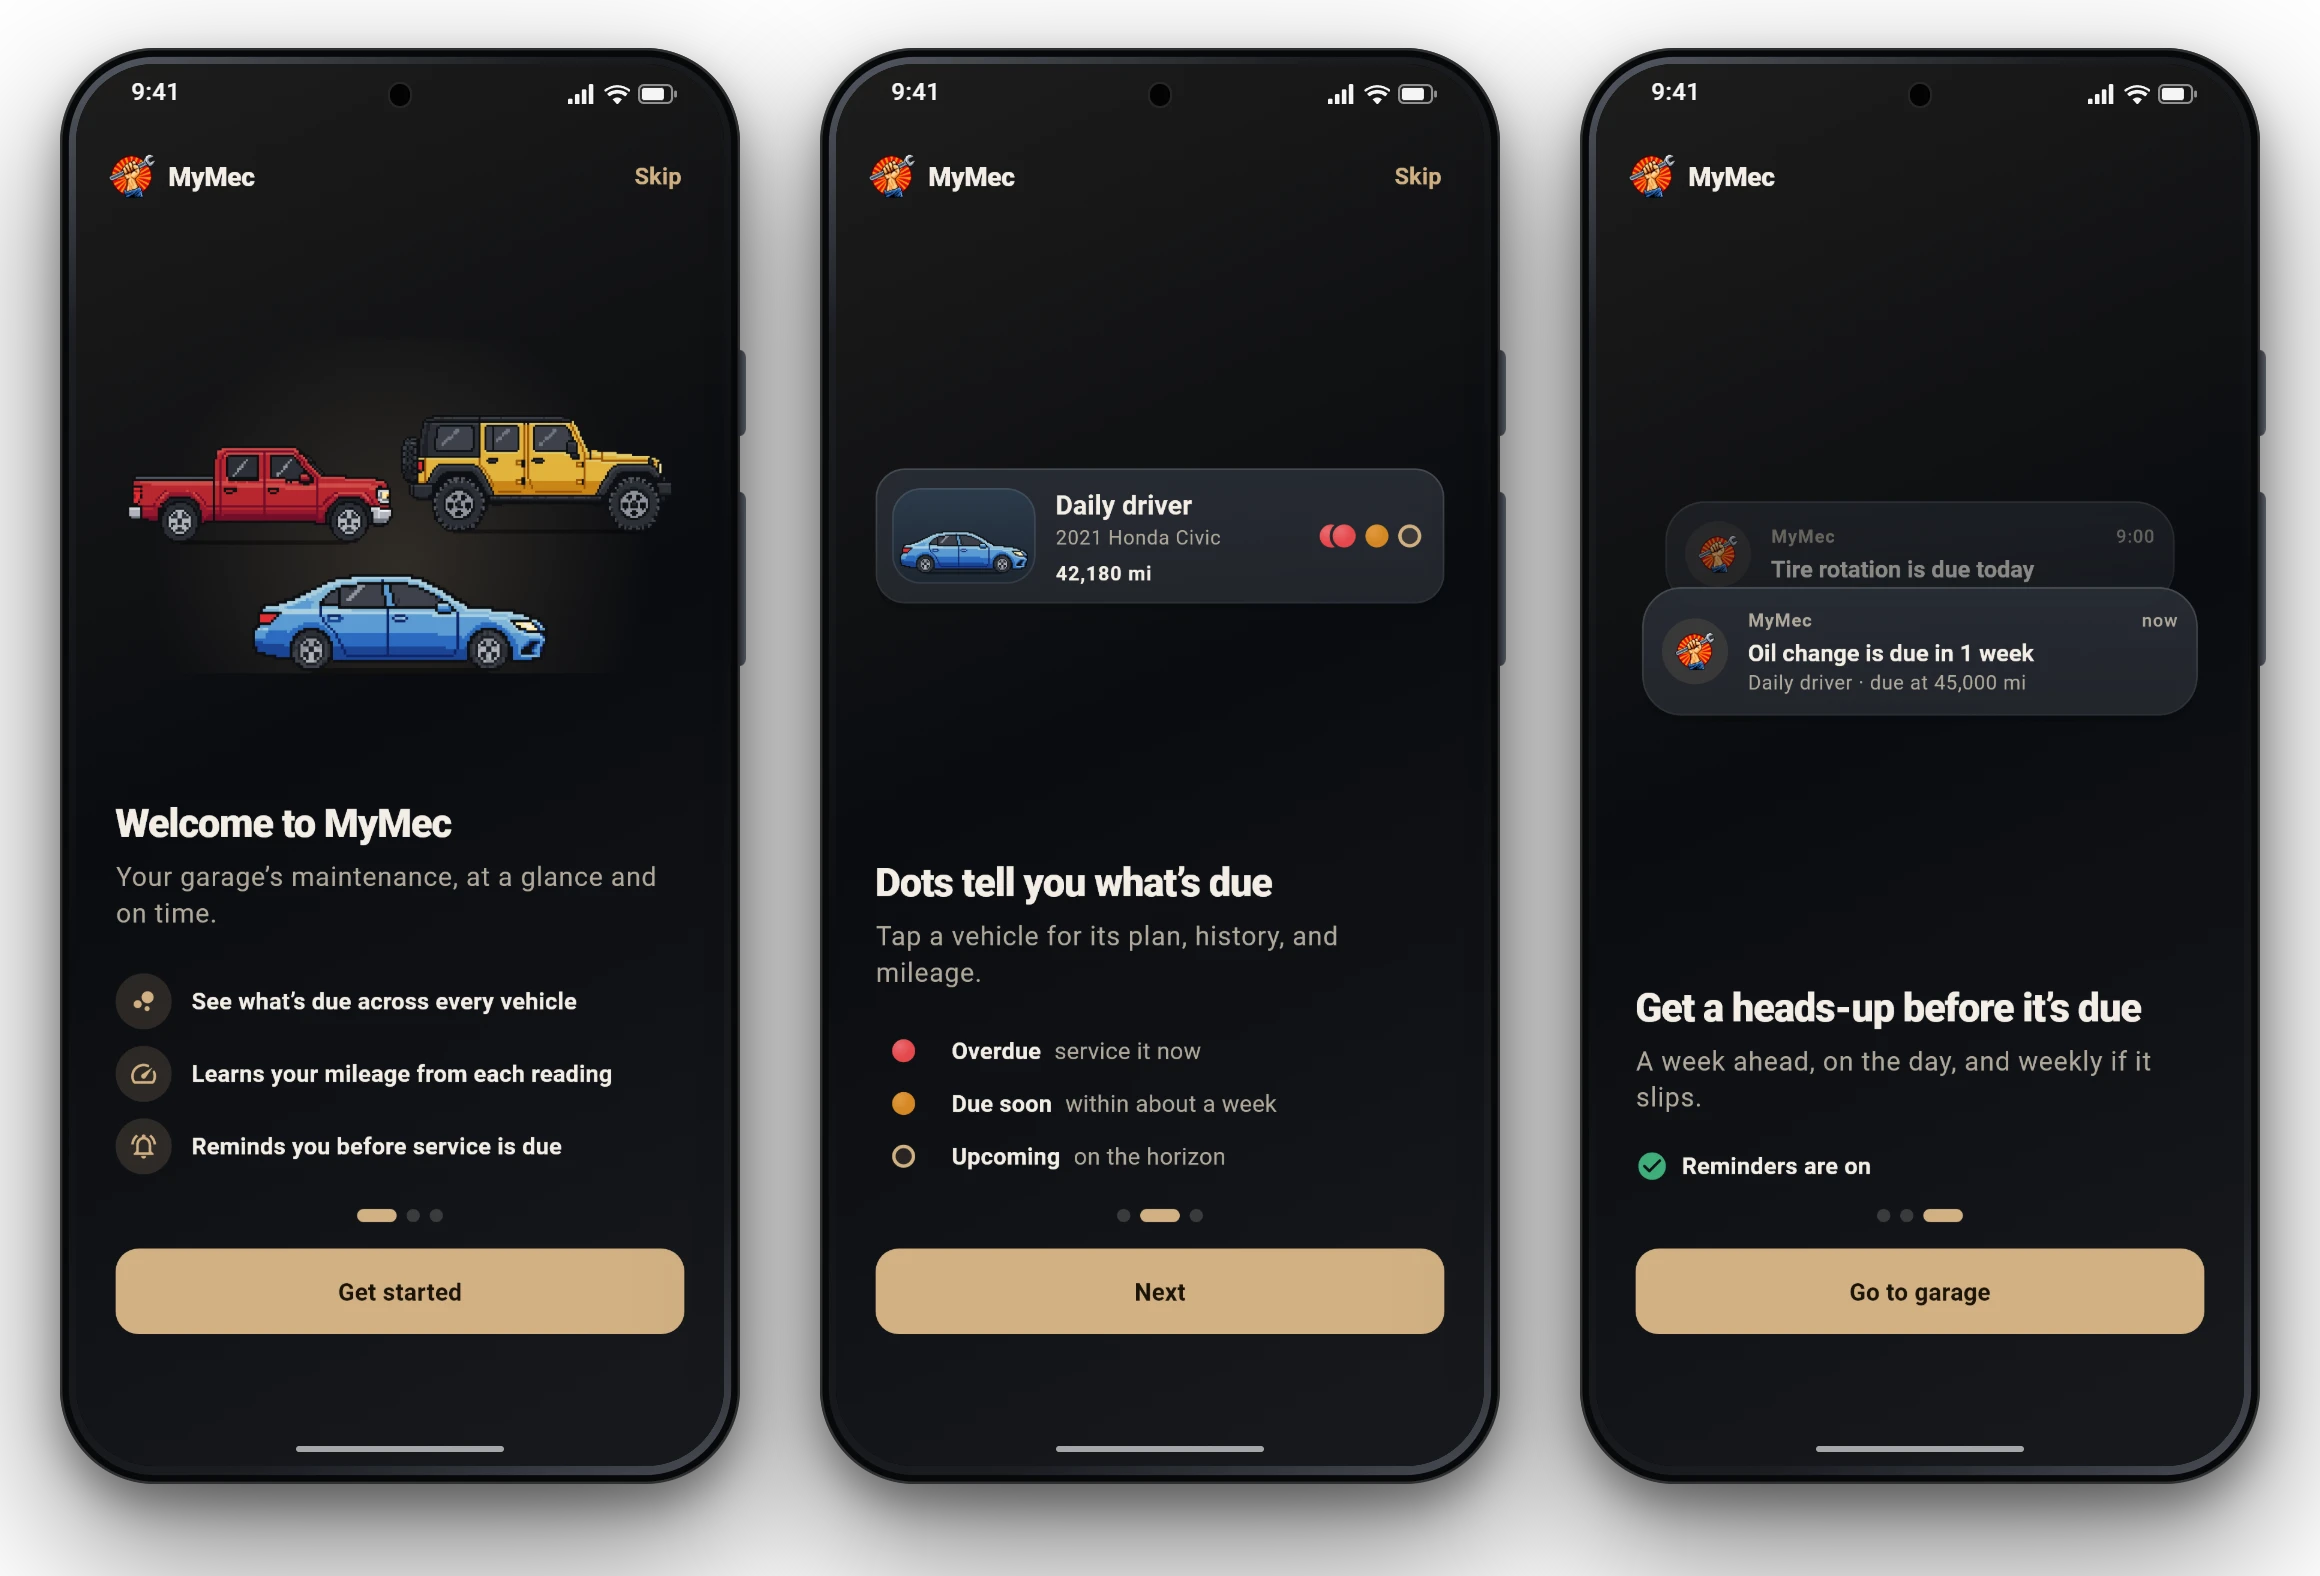
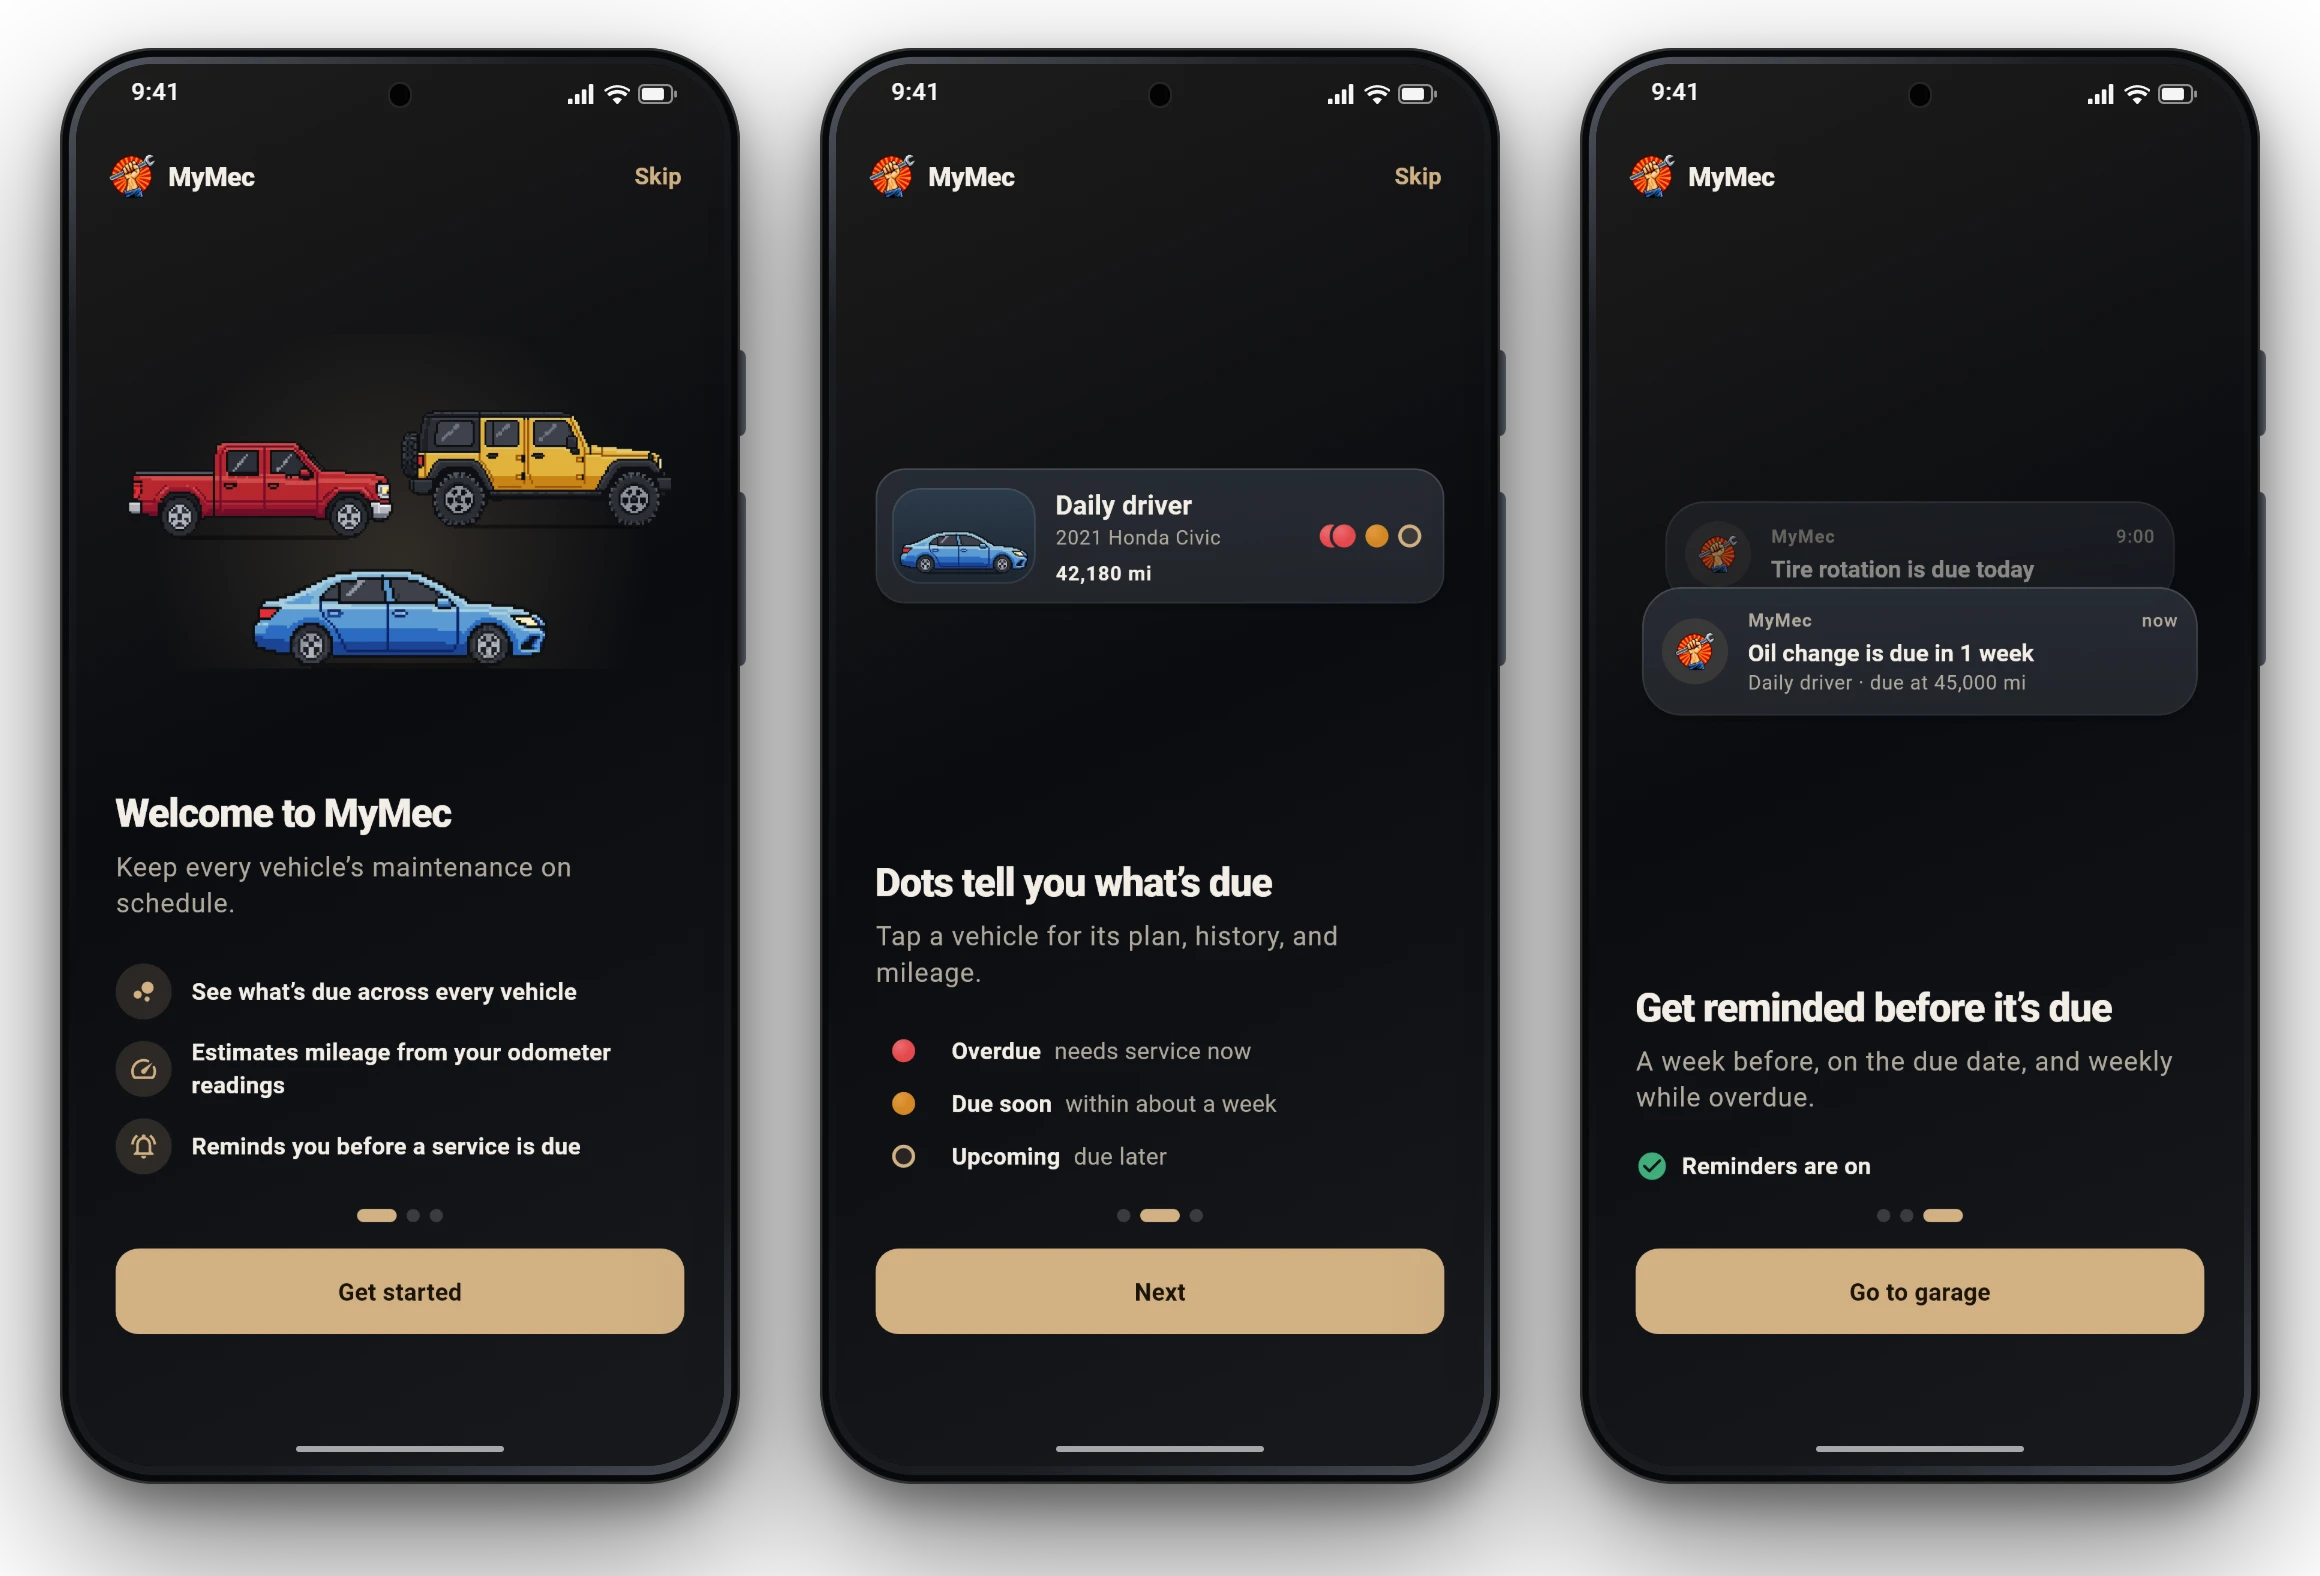
Update README and guide

diff --git a/GUIDE.md b/GUIDE.md
@@ -41,8 +41,8 @@ tour and replay it any time from **Settings › Replay welcome tour**.
 </p>
 
 Open the **Add** tab. Under **Vehicle type**, pick the model year, then the
-make and model from the built-in catalog (it works offline). Under **Local
-details**, choose miles or kilometers and, if you like, add the trim, a
+make and model from the built-in catalog (it works offline). Under
+**Details**, choose miles or kilometers and, if you like, add the trim, a
 nickname, and the VIN. Then open the vehicle and enter its current odometer
 reading with the pencil. **Edit vehicle** (the ••• menu) changes the details
 later, including how the vehicle looks: its drawing and paint.
@@ -59,7 +59,7 @@ yours does.
 </p>
 
 The garage lists every vehicle with its mileage and how much it is driven.
-Instead of sentences, each card shows **severity dots**:
+Each card shows **colored dots** for what is due:
 
 | Dot | Meaning |
 |---|---|
@@ -114,7 +114,7 @@ interval. From here you can:
 - **Log service** to mark it done, with the date, odometer, cost, and the
   shop (or DIY), plus parts, labor, and notes.
 - **Log past** to add a visit you did before.
-- **Cadence** to change the interval in months and miles, and how early to
+- **Schedule** to change the interval in months and miles, and how early to
   be reminded.
 - **Snooze** to be reminded later, or **Skip** a cycle you don't need.
 - **Pause** a service you don't want tracked, or delete it.
@@ -139,8 +139,8 @@ it, or use **Add history** to enter older records.
   <img src="guide/pdf.webp" alt="The PDF export options and an exported page" width="560">
 </p>
 
-Tap **Export PDF** to export what the filter shows as a clean service record,
-to print, email, or hand over when you sell. Choose what each entry includes
+Tap **Export PDF** to export what the filter shows as a service record to
+print, email, or hand over when you sell. Choose what each entry includes
 (odometer, cost, shop or DIY, notes, parts and labor) and which sections to
 add (VIN and odometer, totals by service, and the current service plan).
 **Preview** shows every page as it will print (pinch to zoom); then **Save**
@@ -165,8 +165,10 @@ about. Use **Settings › Send a test reminder** to check they come through.
 
 Open **Settings** from the garage (top right):
 
-- **Appearance:** System, Light, or Dark; the **liquid glass** effect; and
-  whether to skip the launch animation.
+- **Appearance:** System, Light, or Dark. Android and iOS 18–25 also offer a
+  **liquid glass** setting for the app's custom surfaces. On iOS 26 and later,
+  Apple controls follow the system appearance and accessibility settings, so
+  there is no separate glass switch.
 - **Reminders:** notification status, and a test reminder.
 - **Cloud backup** (optional): keeps your garage in sync across your devices
   with a 16-digit account code. Your garage is encrypted on your phone before
@@ -190,7 +192,7 @@ On Android, the app picks up your wallpaper's colors.
 </p>
 
 Removing a vehicle moves it to the **Trash** for 3 days, with its reminders
-turned off. Restore it from there, or delete it for good right away.
+turned off. Restore it from there, or delete it permanently right away.
 
 ## Tips
 

diff --git a/README.md b/README.md
@@ -18,8 +18,8 @@ New to MyMec? The **[guide](GUIDE.md)** walks through every screen.
   coolant, transmission, spark plugs, belts, differential and transfer case
   fluid, wipers, alignment, and inspections) at the sooner end of common
   intervals. Axle fluids start paused on vehicles that may not have them.
-  Every interval is yours to change, you can add your own services, and
-  you can delete any service you don't need.
+  You can change any interval, add your own services, and delete any
+  service you don't need.
 - **Knows when things are due.** Each service is due by date or mileage,
   whichever comes first. MyMec learns how much you drive from your odometer
   readings, so it can tell when a service is coming up between readings.
@@ -30,8 +30,8 @@ New to MyMec? The **[guide](GUIDE.md)** walks through every screen.
   mileage, cost, shop or DIY, parts, labor, and notes. History is grouped by
   year, with totals and a 12-month activity view, and filters by service and
   date.
-- **PDF service records.** Export a vehicle's history as a clean PDF to
-  print, email, or hand over when you sell. You choose what it includes:
+- **PDF service records.** Export a vehicle's history as a PDF to print,
+  email, or hand over when you sell. You choose what it includes:
   odometer, cost, shop, notes, parts, totals, and the current service plan,
   and can preview every page before you save or share it.
 - **Miles or kilometers,** per vehicle.
